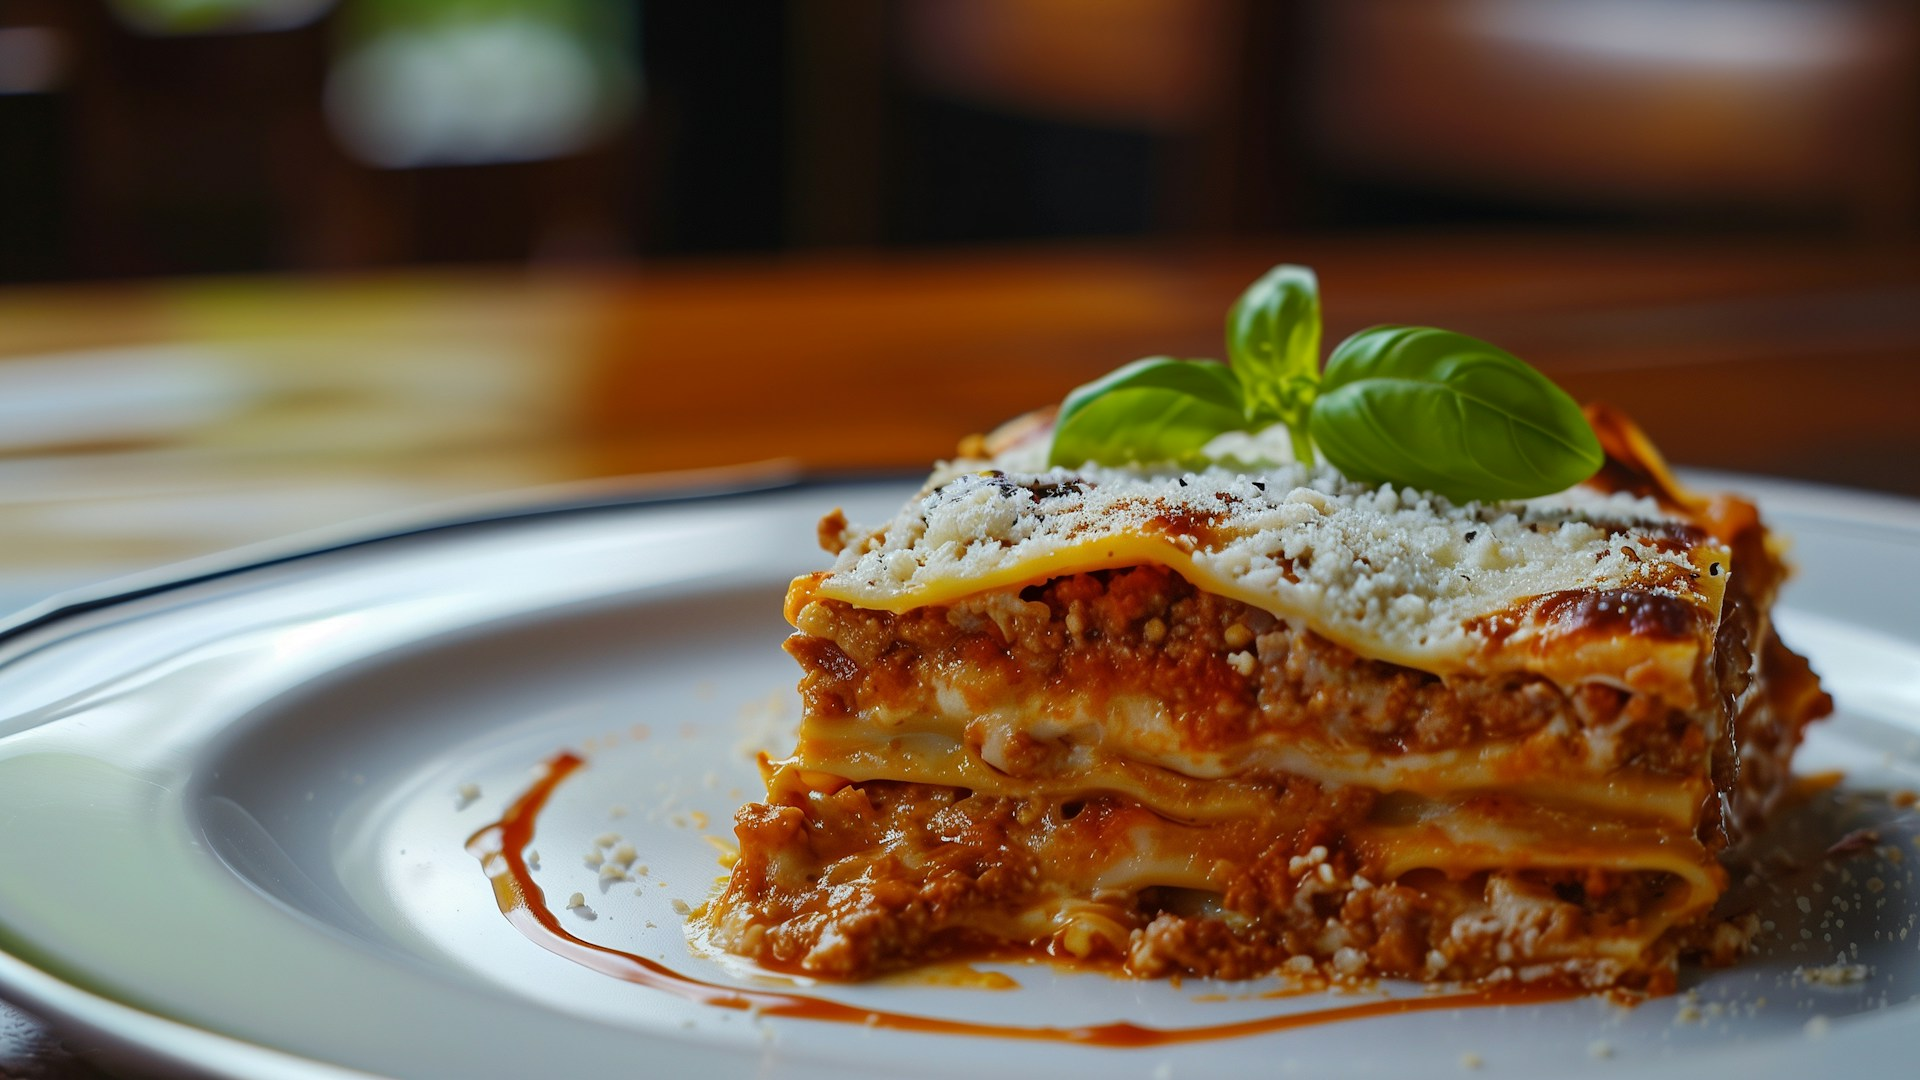
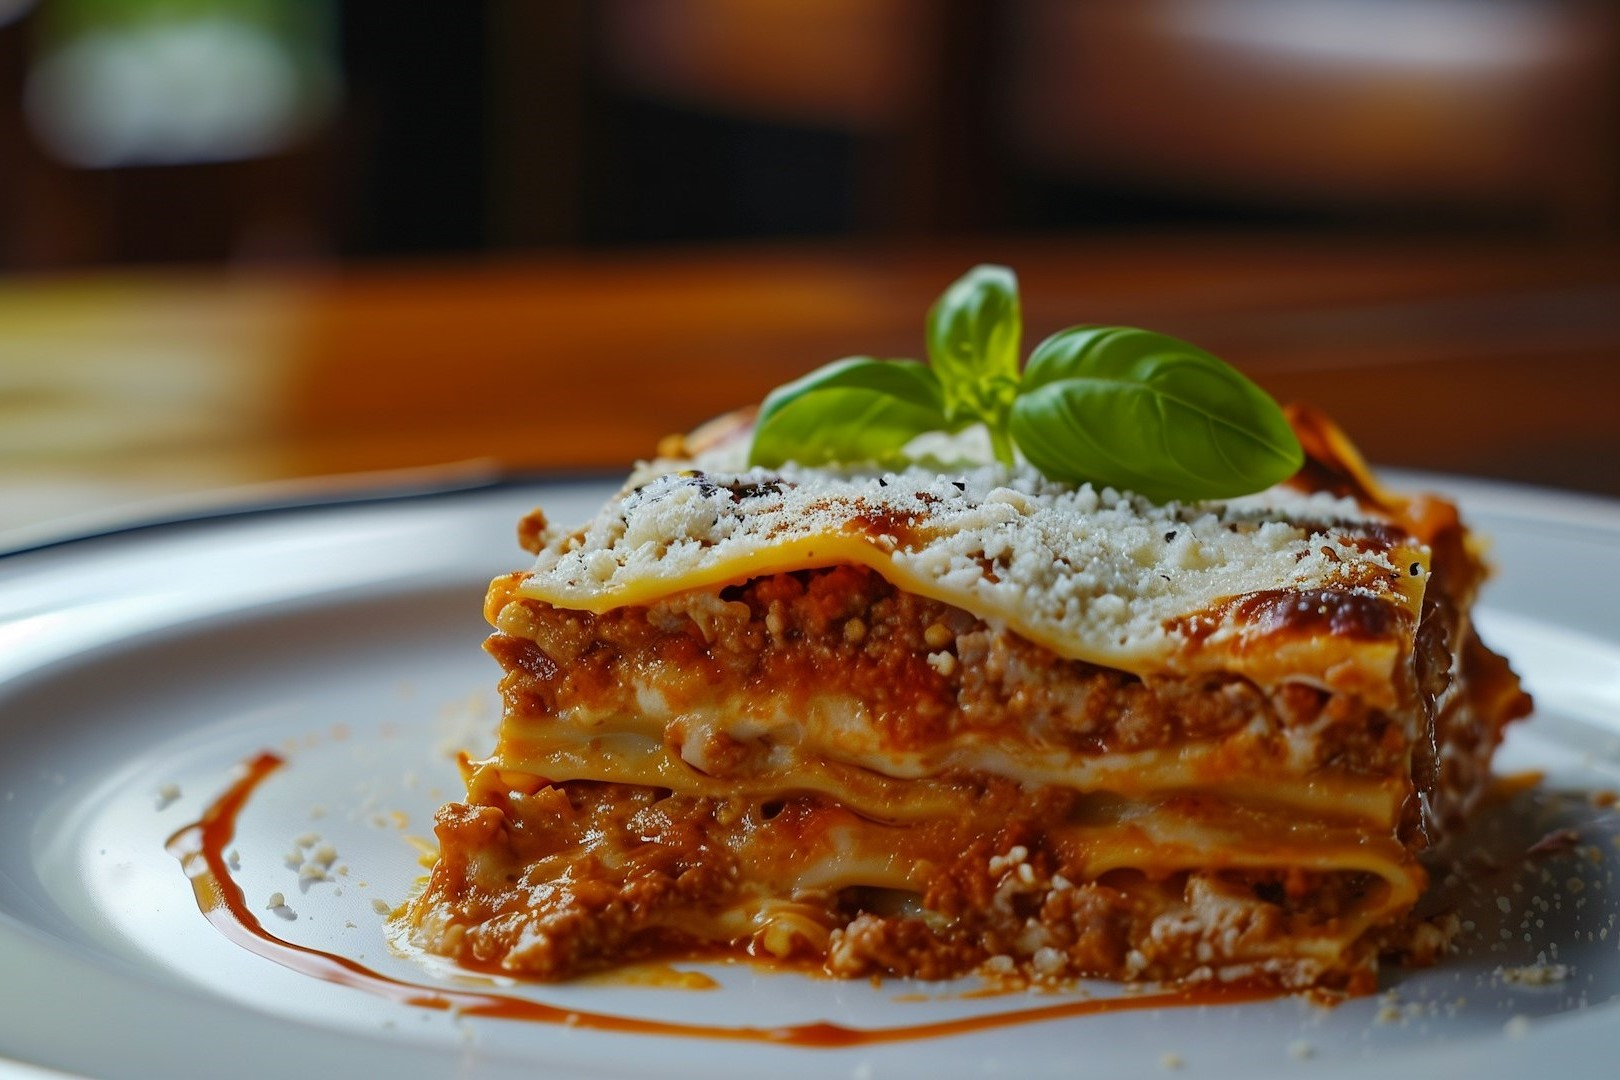
Update image styles

diff --git a/src/styles.css b/src/styles.css
@@ -72,11 +72,14 @@ img {
   box-shadow: 0 2px 8px rgba(0, 0, 0, 0.1);
 }
 
+section img {
+  max-width: 500px;
+}
+
 section h2 {
   color: #8b0000;
   font-family: "Italianno", cursive;
   font-size: 2.2rem;
-  margin-bottom: 0.5rem;
 }
 
 strong {
